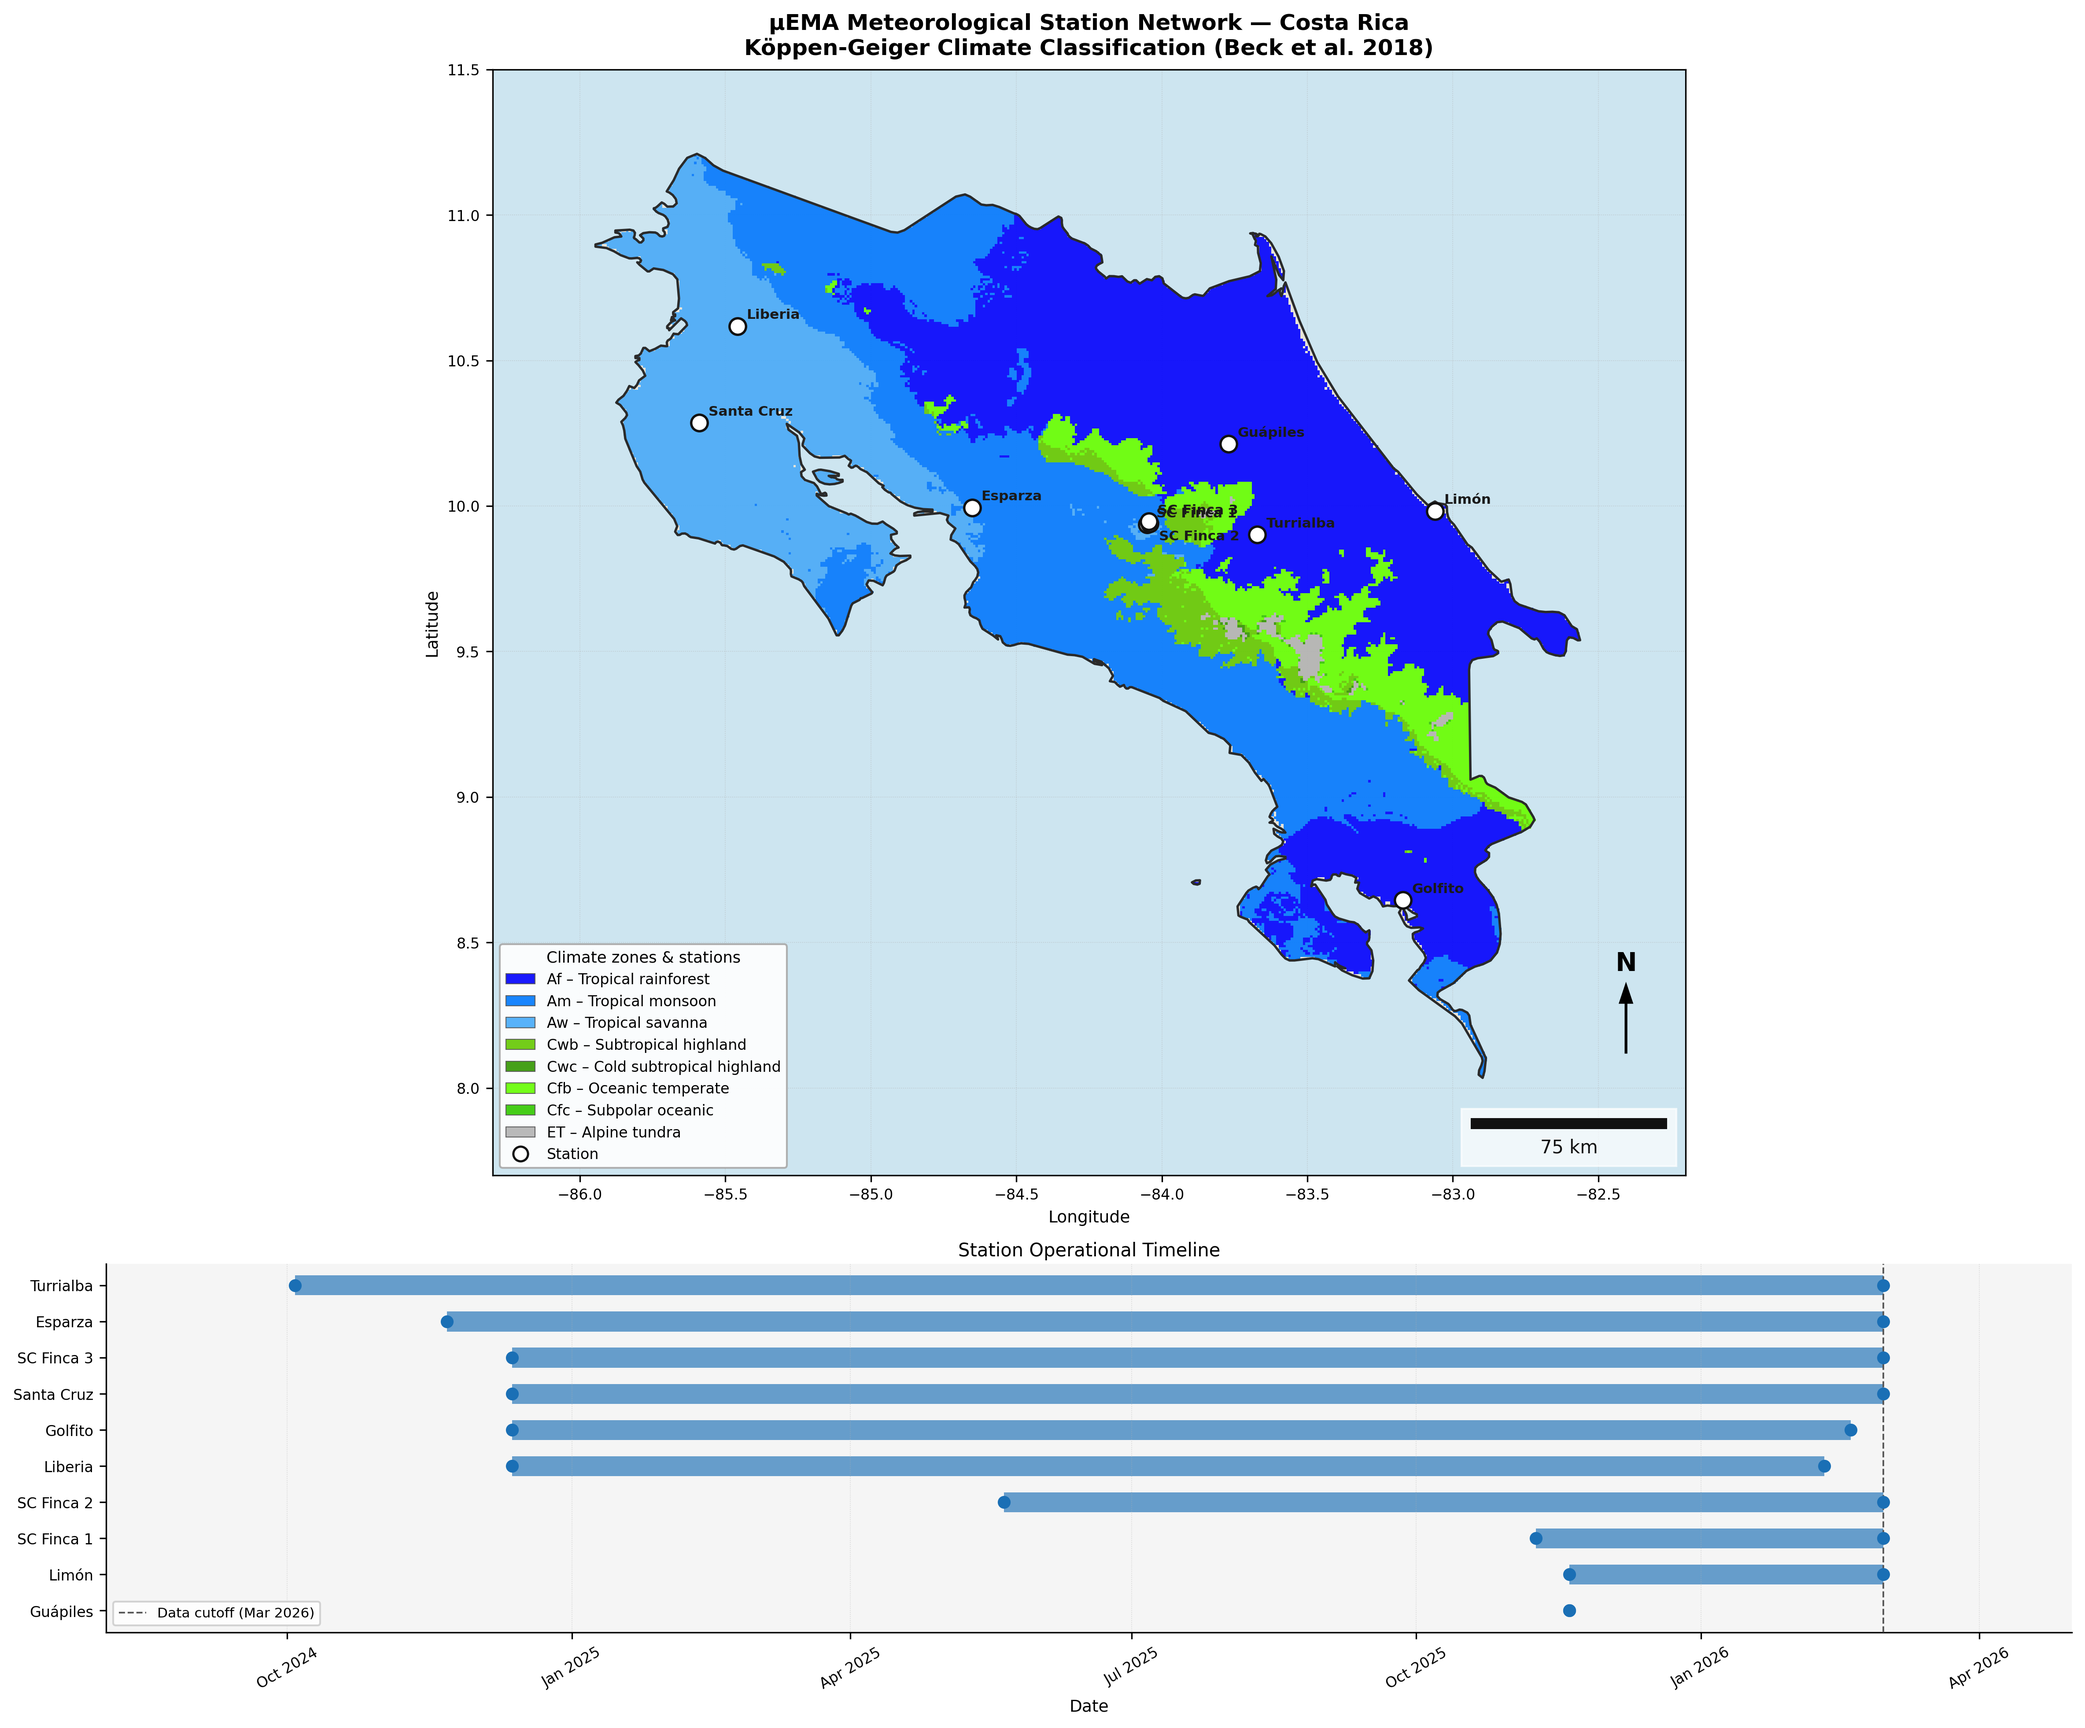
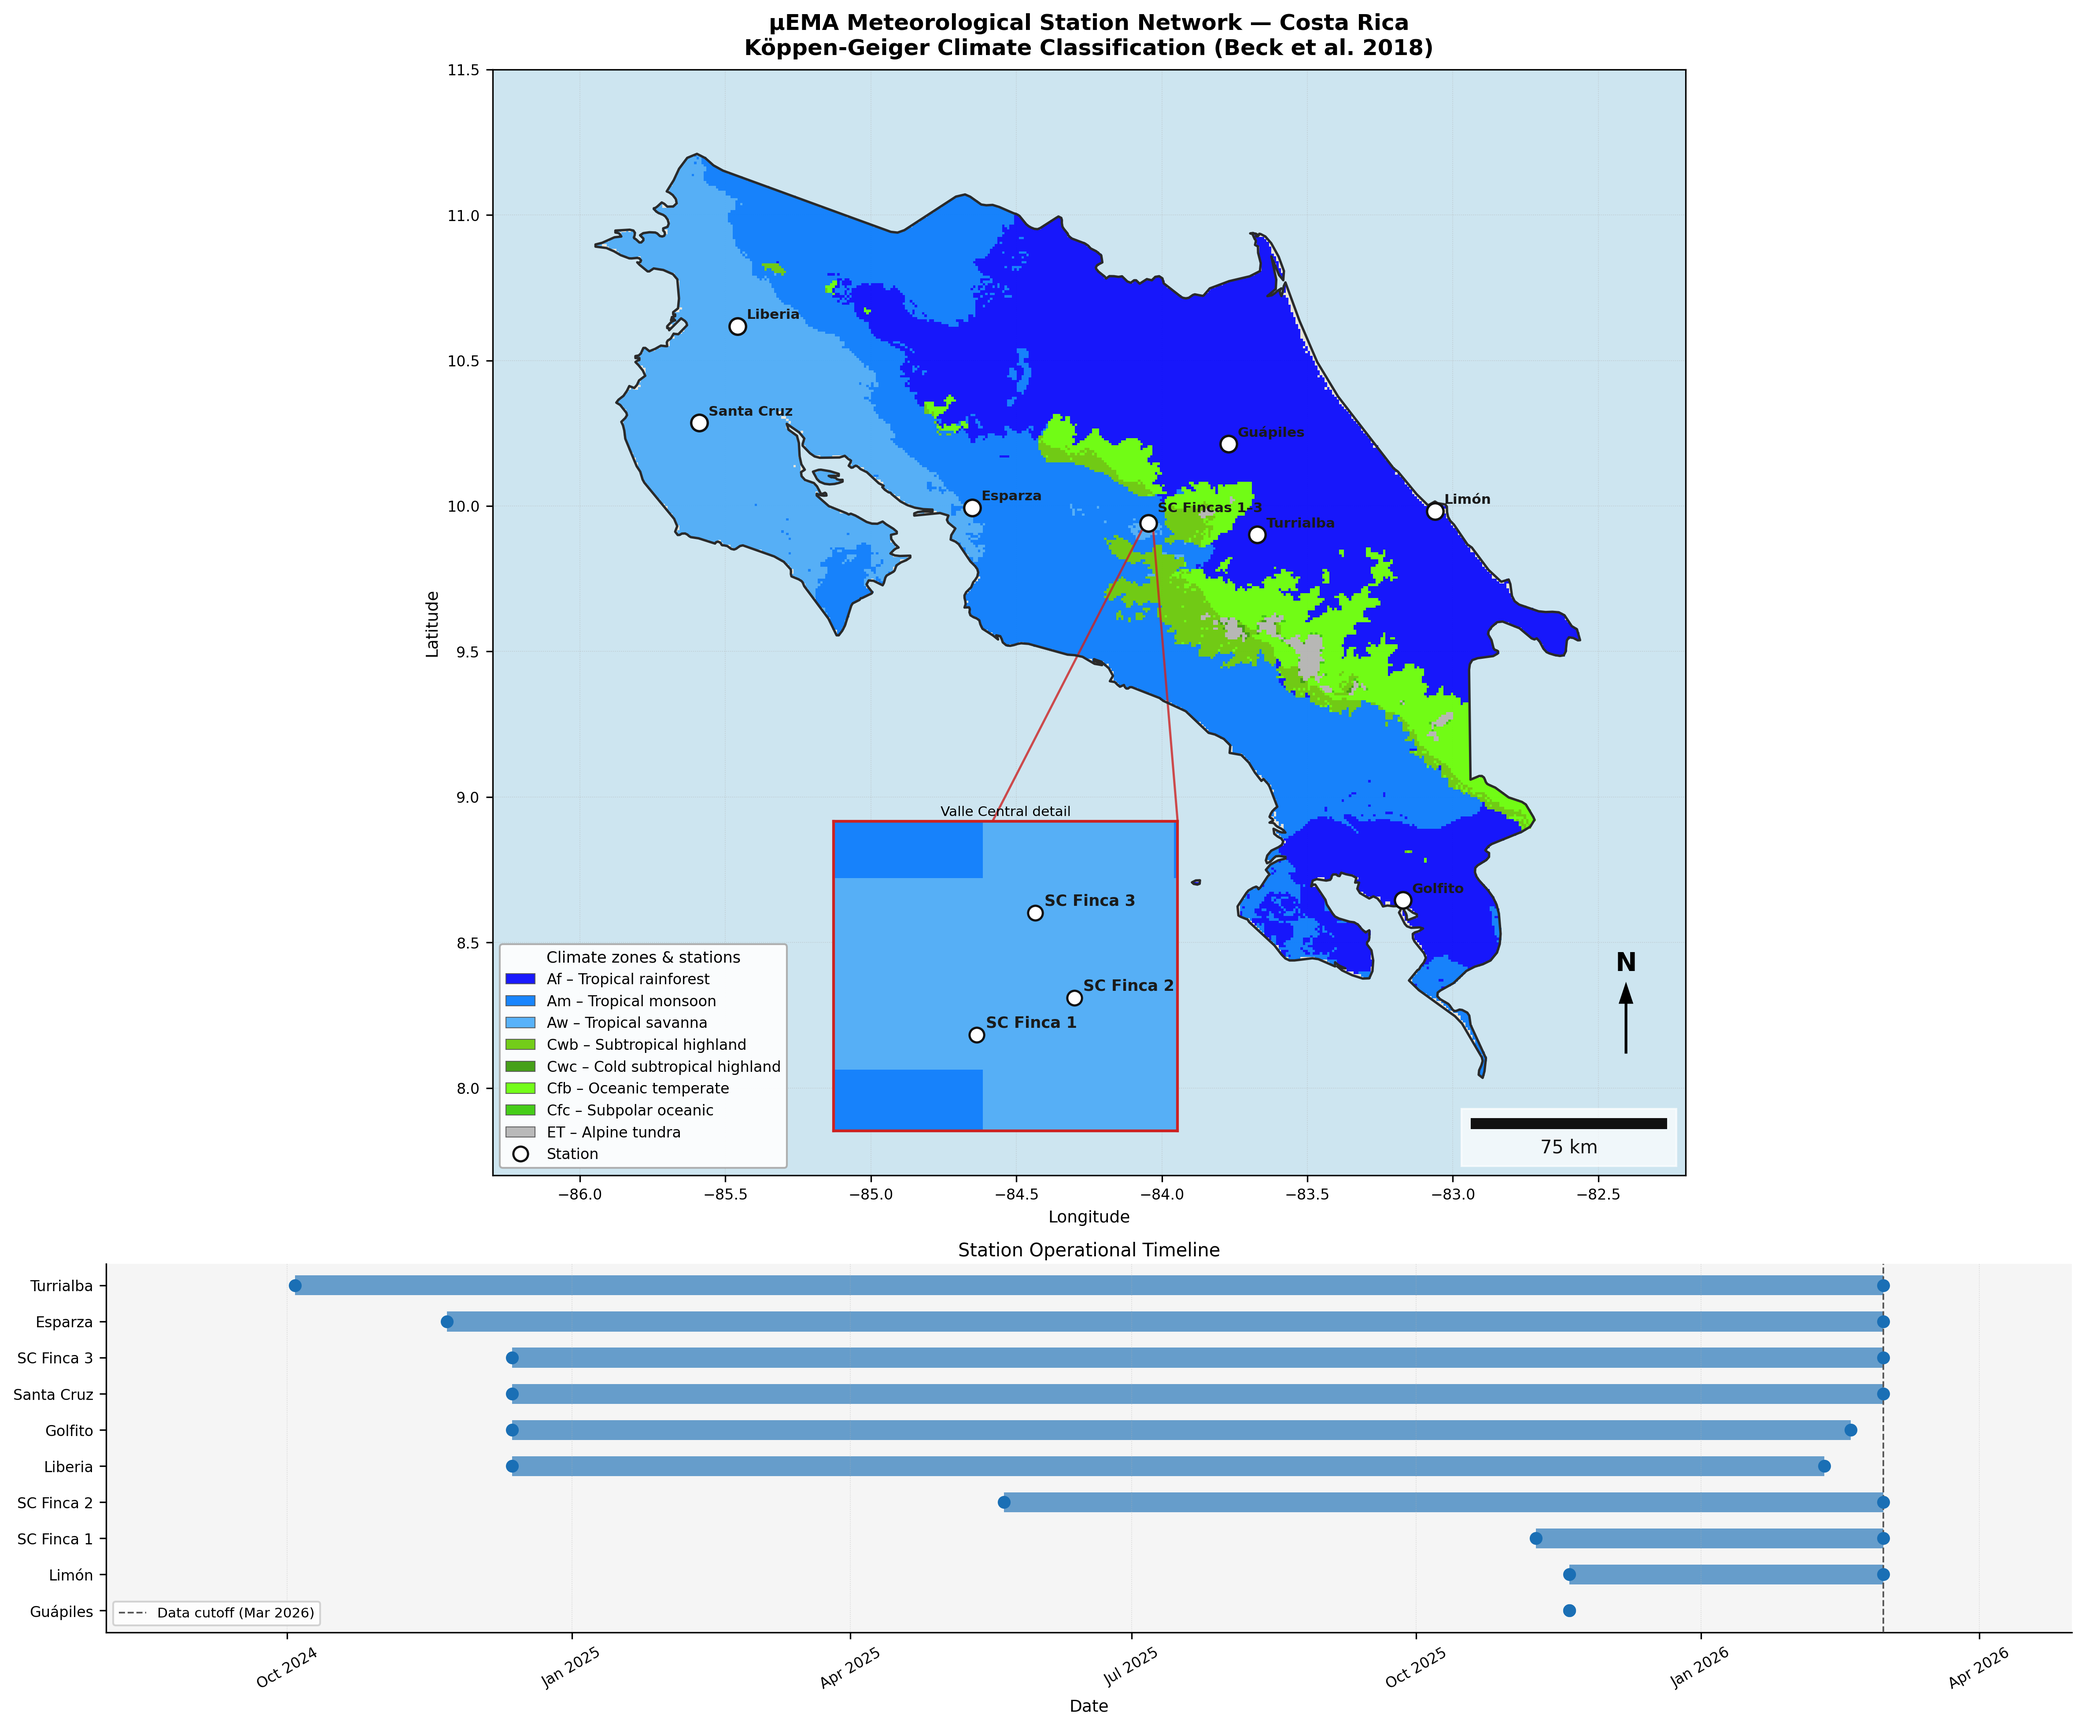
Zoom in fincas

Changed region(s): [[0.3725, 0.4664, 0.5899, 0.6529], [0.5588, 0.2798, 0.5899, 0.3109]]

diff --git a/figures/koppen_stations_map.py b/figures/koppen_stations_map.py
@@ -294,28 +294,69 @@ def build_figure(cr: gpd.GeoDataFrame) -> plt.Figure:
     cr.plot(ax=ax_map, color="none", edgecolor="#2a2a2a", linewidth=1.3, zorder=5)
 
     # ── Stations ──────────────────────────────────────────────────────────────
+    FINCA_IDS = {
+        "sede-central_finca-1",
+        "sede-central_finca-2",
+        "sede-central_finca-3",
+    }
+    finca_stations = [s for s in STATIONS if s["id"] in FINCA_IDS]
+    finca_centroid_lon = np.mean([s["lon"] for s in finca_stations])
+    finca_centroid_lat = np.mean([s["lat"] for s in finca_stations])
+
     for s in STATIONS:
-        ax_map.plot(
-            s["lon"],
-            s["lat"],
-            "o",
-            markersize=9,
-            markerfacecolor="white",
-            markeredgecolor="#111111",
-            markeredgewidth=1.3,
-            zorder=7,
-        )
+        if s["id"] in FINCA_IDS:
+            continue  # replaced by single centroid marker below
+        ax_map.plot(s["lon"], s["lat"], "o", markersize=9,
+                    markerfacecolor="white", markeredgecolor="#111111",
+                    markeredgewidth=1.3, zorder=7)
         dx, dy = s["offset"]
-        ax_map.annotate(
-            s["label"],
-            xy=(s["lon"], s["lat"]),
-            xytext=(dx, dy),
-            textcoords="offset points",
-            fontsize=7.5,
-            fontweight="bold",
-            color="#1a1a1a",
-            zorder=8,
-        )
+        ax_map.annotate(s["label"], xy=(s["lon"], s["lat"]),
+                        xytext=(dx, dy), textcoords="offset points",
+                        fontsize=7.5, fontweight="bold", color="#1a1a1a", zorder=8)
+
+    # Single centroid marker + label for the finca cluster on the main map
+    ax_map.plot(finca_centroid_lon, finca_centroid_lat, "o", markersize=9,
+                markerfacecolor="white", markeredgecolor="#111111",
+                markeredgewidth=1.3, zorder=7)
+    ax_map.annotate(
+        "SC Fincas 1–3", xy=(finca_centroid_lon, finca_centroid_lat),
+        xytext=(5, 6), textcoords="offset points",
+        fontsize=7.5, fontweight="bold", color="#1a1a1a", zorder=8,
+    )
+
+    # ── Valle Central inset (zoom for SC Finca 1, 2, 3) ──────────────────────
+    zx0, zx1 = -84.063, -84.033
+    zy0, zy1 =   9.928,   9.955
+
+    axins = ax_map.inset_axes(
+        [0.27, 0.04, 0.32, 0.28],   # [left, bottom, width, height] in axes fraction
+        xlim=(zx0, zx1), ylim=(zy0, zy1),
+    )
+    axins.set_facecolor("#cde5f0")
+    cr.plot(ax=axins, color="#e8e4d8", edgecolor="none", zorder=1)
+    axins.imshow(rgba, extent=extent, origin="upper", zorder=2,
+                 interpolation="nearest", aspect="auto")
+    cr.plot(ax=axins, color="none", edgecolor="#2a2a2a", linewidth=0.8, zorder=5)
+
+    for s in finca_stations:
+        axins.plot(s["lon"], s["lat"], "o", markersize=8,
+                   markerfacecolor="white", markeredgecolor="#111111",
+                   markeredgewidth=1.2, zorder=7)
+        axins.annotate(s["label"], xy=(s["lon"], s["lat"]),
+                       xytext=(5, 4), textcoords="offset points",
+                       fontsize=8.5, fontweight="bold", color="#1a1a1a", zorder=8)
+
+    axins.set_xlim(zx0, zx1)
+    axins.set_ylim(zy0, zy1)
+    axins.set_aspect("equal")
+    axins.set_xticks([])
+    axins.set_yticks([])
+    axins.set_title("Valle Central detail", fontsize=7.5, pad=3)
+    for spine in axins.spines.values():
+        spine.set_edgecolor("#cc2222")
+        spine.set_linewidth(1.5)
+
+    ax_map.indicate_inset_zoom(axins, edgecolor="#cc2222", linewidth=1.2, alpha=0.8)
 
     # ── North arrow ───────────────────────────────────────────────────────────
     ax_map.text(
